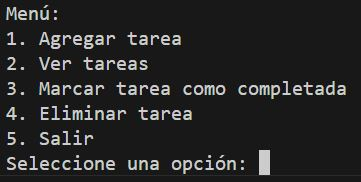
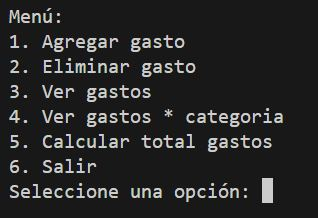
Archivo README.md casi finalizado, solo falta cargar el video de youtube

diff --git a/funciones.py b/funciones.py
@@ -10,6 +10,21 @@ def agregar_gasto():
     gastos.append(gasto)
     print("gasto agregado correctamente.\n")
 
+#Función para eliminar una tarea
+def eliminar_gasto():
+    ver_gastos()
+    if not gastos:
+        return
+    try:
+        num = int(input("Ingrese el número del gasto a eliminar: "))
+        if 1 <= num <= len(gastos):
+            gasto_eliminada = gastos.pop(num - 1)
+            print(f"Gasto '{gasto_eliminada['categoria']}' eliminado.\n")
+        else:
+            print("Número inválido.\n")
+    except ValueError:
+        print("Por favor, ingrese un número válido.\n")
+
 #Función para mostrar todos los gastos
 def ver_gastos():
     if not gastos:
@@ -47,18 +62,3 @@ def calcular_total_gastos():
         return
     total = sum(gasto['monto'] for gasto in gastos)
     print(f"\n Total de gastos del mes: ${total:.2f}\n")
-
-#Función para eliminar una tarea
-def eliminar_gasto():
-    ver_gastos()
-    if not gastos:
-        return
-    try:
-        num = int(input("Ingrese el número del gasto a eliminar: "))
-        if 1 <= num <= len(gastos):
-            gasto_eliminada = gastos.pop(num - 1)
-            print(f"Gasto '{gasto_eliminada['categoria']}' eliminado.\n")
-        else:
-            print("Número inválido.\n")
-    except ValueError:
-        print("Por favor, ingrese un número válido.\n")

diff --git a/README.md b/README.md
@@ -36,25 +36,27 @@ El objetivo de este proyecto es crear una calculadora que ayude a los usuarios a
 - **Menú**
 ![Menú principal](Resources/Images_Readme/Menú.JPG)
 
-- **Agregar Tareas**
-![Agregar Tareas](Resources/Images_Readme/Agregar_Tareas.JPG)
+- **Agregar Gastos**
+![Agregar Gastos](Resources/Images_Readme/Agregar_Gastos.JPG)
 
-- **Ver Tareas**
-![Ver Tareas Lista](Resources/Images_Readme/Ver_Tareas.JPG)
+- **Eliminar Gastos**
+![Eliminar Gastos](Resources/Images_Readme/Eliminar_Gastos_1.JPG)
+![Cambio Evidenciado](Resources/Images_Readme/Eliminar_Gastos_2.JPG)
 
-- **Marcar Tareas Como Completadas**
-![Cambiar El Estado](Resources/Images_Readme/Tareas_Completadas_1.JPG)
-![Cambio Evidenciado](Resources/Images_Readme/Tareas_Completadas_2.JPG)
+- **Ver Gastos**
+![Ver Gastos](Resources/Images_Readme/Ver_Gastos.JPG)
 
-- **Eliminar Tareas**
-![Eliminar Tarea](Resources/Images_Readme/Eliminar_Tareas_1.JPG)
-![Cambio Evidenciado](Resources/Images_Readme/Eliminar_Tareas_2.JPG)
+- **Ver Gastos Por Categoria**
+![Ver Gastos Por Categoria](Resources/Images_Readme/Gastos_Categoria.JPG)
+
+- **Gastos Total**
+![Gastos Total](Resources/Images_Readme/Gastos_Total.JPG)
 
 - **Salir Del Programa**
 ![Salir Del Programa](Resources/Images_Readme/Salir.JPG)
 
 ## Video Sustentación
-- **[Video YouTube](https://youtu.be/3zfOrpf30SY)**
+- **[Video YouTube](https://)**
 
 ## Explicacion Codigo
 
@@ -70,24 +72,32 @@ import funciones
 def menu():
     while True:
         print("\nMenú:")
-        print("1. Agregar tarea")
-        print("2. Ver tareas")
-        print("3. Marcar tarea como completada")
-        print("4. Eliminar tarea")
-        print("5. Salir")
+        print("1. Agregar gasto")
+        print("2. Eliminar gasto")
+        print("3. Ver gastos")
+        print("4. Ver gastos * categoria")
+        print("5. Calcular total gastos")
+        print("6. Salir")
 ```
 
-### segun la informacion que ingresa el usuario vamos a enviarlo por el if-elif-else a cada una de las funciones establecidas
+### El usuario ingresa la opcion que necesita procesar desde el input.
+```python
+opcion = input("Seleccione una opción: ")
+```
+
+### Segun el valor ingresado lo iteramos desde el if-elif-else a cada una de las funciones correspondientemente.
 ```python
 if opcion == "1":
-            funciones.agregar_tarea()
+            funciones.agregar_gasto()
         elif opcion == "2":
-            funciones.ver_tareas()
+            funciones.eliminar_gasto()    
         elif opcion == "3":
-            funciones.marcar_completada()
+            funciones.ver_gastos()
         elif opcion == "4":
-            funciones.eliminar_tarea()
+            funciones.ver_resumen_categoria()
         elif opcion == "5":
+            funciones.calcular_total_gastos()
+        elif opcion == "6":
             print("Saliendo del programa...")
             break
         else:
@@ -95,58 +105,74 @@ if opcion == "1":
 ```
 
 ### Funciones
--**Agregar Tareas**
+-**Agregar Gasto**
 ```python
-def agregar_tarea():
-    titulo = input("Ingrese el título de la tarea: ")
-    descripcion = input("Ingrese la descripción de la tarea: ")
-    tarea = {"titulo": titulo, "descripcion": descripcion, "estado": "Pendiente"}
-    tareas.append(tarea)
-    print("Tarea agregada correctamente.\n")
+def agregar_gasto():
+    categoria = input("Ingrese la categoria del gasto: ")
+    descripcion = input("Ingrese la descripción del gasto: ")
+    monto = float(input("Ingrese el monto del gasto: "))
+    gasto = {"categoria": categoria, "descripcion": descripcion, "monto": monto}
+    gastos.append(gasto)
+    print("gasto agregado correctamente.\n")
 ```
 
--**Ver Tareas**
+-**Eliminar Gastos**
 ```python
-def ver_tareas():
-    if not tareas:
-        print("No hay tareas registradas.\n")
+def eliminar_gasto():
+    ver_gastos()
+    if not gastos:
         return
-    print("\nLista de Tareas:")
-    for i, tarea in enumerate(tareas, 1):
-        print(f"{i}. {tarea['titulo']} - {tarea['descripcion']} [{tarea['estado']}]")
+    try:
+        num = int(input("Ingrese el número del gasto a eliminar: "))
+        if 1 <= num <= len(gastos):
+            gasto_eliminada = gastos.pop(num - 1)
+            print(f"Gasto '{gasto_eliminada['categoria']}' eliminado.\n")
+        else:
+            print("Número inválido.\n")
+    except ValueError:
+        print("Por favor, ingrese un número válido.\n")
+```
+
+-**Ver Gastos**
+```python
+def ver_gastos():
+    if not gastos:
+        print("No hay gastos registrados.\n")
+        return
+    print("\nLista de Gastos:")
+    for i, gasto in enumerate(gastos, 1):
+        print(f"{i}. {gasto['categoria']} - {gasto['descripcion']} [{gasto['monto']}]")
     print("")
 ```
 
--**Marcar Tareas Como Completadas**
+-**Ver Resumen De Gastos Por Categoria**
 ```python
-def marcar_completada():
-    ver_tareas()
-    if not tareas:
+def ver_resumen_categoria():
+    resumen={}
+
+    if not gastos:
+        print("No hay gastos registrados.\n")
         return
-    try:
-        num = int(input("Ingrese el número de la tarea a marcar como completada: "))
-        if 1 <= num <= len(tareas):
-            tareas[num - 1]["estado"] = "Completada"
-            print("Tarea marcada como completada.\n")
+    for gasto in gastos:
+        categoria = gasto['categoria']
+        monto = gasto['monto']
+        if categoria in resumen:
+            resumen[categoria] += monto
         else:
-            print("Número inválido.\n")
-    except ValueError:
-        print("Por favor, ingrese un número válido.\n")
+            resumen[categoria] = monto
+    print("\n Resumen de gastos por categoría:")
+    for categoria, total in resumen.items():
+        print(f"- {categoria}: ${total:.2f}")
+    print()
 ```
 
--**Eliminar Tareas**
+-**Calcular Total De Los Gastos**
 ```python
-def eliminar_tarea():
-    ver_tareas()
-    if not tareas:
+def calcular_total_gastos():
+
+    if not gastos:
+        print("No hay gastos registrados.\n")
         return
-    try:
-        num = int(input("Ingrese el número de la tarea a eliminar: "))
-        if 1 <= num <= len(tareas):
-            tarea_eliminada = tareas.pop(num - 1)
-            print(f"Tarea '{tarea_eliminada['titulo']}' eliminada.\n")
-        else:
-            print("Número inválido.\n")
-    except ValueError:
-        print("Por favor, ingrese un número válido.\n")
+    total = sum(gasto['monto'] for gasto in gastos)
+    print(f"\n Total de gastos del mes: ${total:.2f}\n")
 ```
